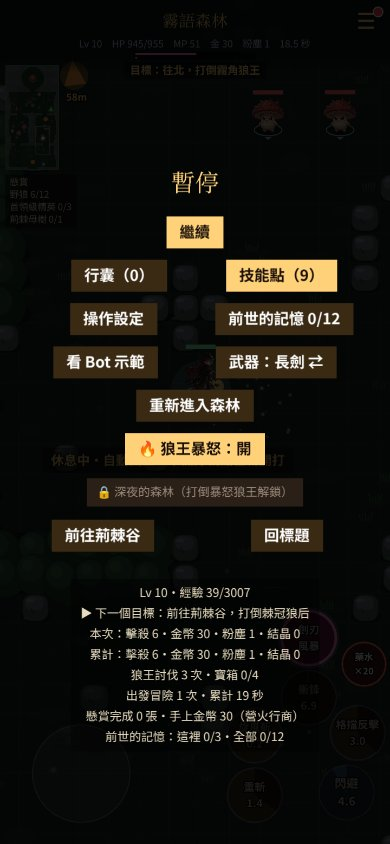
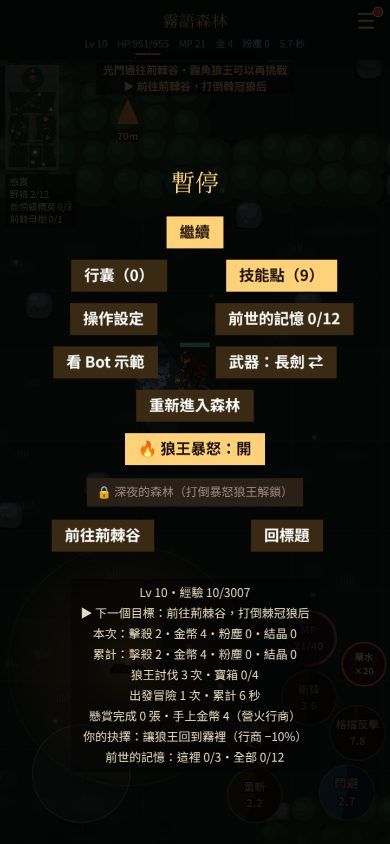
第 68 輪文件：PROGRESS、NEXT、D-200；README 截圖 31（暫停選單）換成現在的畫面 [skip ci]
Claude-Session: https://claude.ai/code/session_01DgXGTxBidVrXajbe2Bkavf

diff --git a/docs/NEXT.md b/docs/NEXT.md
@@ -1,6 +1,6 @@
 # 下一步（依優先順序，最上面先做）
 
-> 第 67 輪（10/31 00:40）更新；第 18 輪整理過：過時指示全部刪掉（Jacky 10/25 要求，D-089）。舊內容要查就看 git 歷史或 `docs/DECISIONS.md`。
+> 第 68 輪（10/31 02:55）更新；第 18 輪整理過：過時指示全部刪掉（Jacky 10/25 要求，D-089）。舊內容要查就看 git 歷史或 `docs/DECISIONS.md`。
 > **現在的方向**：單人即時動作戰鬥＋**四張大地圖**（霧語森林→荊棘谷→燼紅裂谷（結局）→星隕高原（通關後挑戰），D-062／063／065／087／114／125／138）。主規格 `docs/design/20-swordsman-and-map.md`。設計文件索引：`docs/design/README.md`。
 > 舊主線（回合制＋自由探索）**已刪除**（D-097）。排程 ⭐ 方向對照：自由走動 ✅（大地圖）、自由買賣 ✅（D-116 行商）、自由點技能 ✅（D-110／112／121）、卡牌小遊戲 ✅（D-127～139 營火燼牌，五位對手）、碰到場景觸發劇情 ✅（D-134 序章、D-137 前世的記憶、D-133 通關演出、**D-159／160 路上的相遇（含護送）**）、**戀愛線依 D-063 停止，不做**。README 不放開發日誌，開發紀錄只寫在 PROGRESS。
 > **加地圖的方法**（D-124）：`src/game/worldMaps.ts` 加一筆（稱呼、配色、decor、next、`postGame`、`bossLv`）＋ `maps/<id>.ts`（產生器在 `scripts/gen-*-draft.py`）＋敵人資料＋ `SPRITE`＋ 3 段記憶（`memories.ts`，測試會要求）；`tests/rt-world-maps.test.ts`／`memories.test.ts` 會自動檢查。新 decor 要處理：地面 `paint`（`starD` 範例）、`Ambient` kind、`drawVents`／vent 事件顏色。
@@ -10,7 +10,8 @@
 2. `art-inbox/` 有圖 → `node scripts/import-art.mjs`（D-036；需要 `pip install "rembg[cpu]" --break-system-packages`）。
 3. CI：同一輪連推多個 commit 會互相取消，只看最後一次結果。CI 的 Smoke test 有時要 13 分鐘（第 37 輪；卡在 `playwright install --with-deps` 的 apt），job 上限 15 分鐘——若之後開始逾時，再考慮快取瀏覽器或拿掉 `--with-deps`。**程式 commit 和 `[skip ci]` 的文件 commit 不要一起推**（最上面是 [skip ci] 時整次 push 都不跑）。
 
-## 現況（第 67 輪）
+## 現況（第 68 輪）
+- **D-200**：Boss 開打期間抉擇痕跡那句話／寶箱「有點熟悉」不說、記憶卡在 Boss 附近／開打／`menu`／`slainUntil`／`reviveUntil` 時留在 `memQ`；**新的「每次進圖都可能講」的說明用 `timesDue(key, 次數)`**（深夜說明 2 次、隱藏精英連殺提示 3 次）；紅「!」不畫在小地圖／懸賞板上（`overHudPanel`）。大招／Boss 登場凍結截圖方法見第 68 輪 PROGRESS。
 - **D-199**：`ventHinted`／`hazardHinted` 進圖時看這張圖 `bossKills`；`idleHint` 不對 `veteran` 說；`veteran`（打倒過霧角狼王）不顯示「點怪物開打」字條，`calmText` 沒字整條藏起；行商賣空的說明；記憶 12/12 副標＋收尾（最後一頁）。
 - **D-198**：`jg_tip_gear` 只在真的放進行囊才教；`newbie` 要這張圖 `bossKills` 為 0；標題 NEW 另看 `chapterSeen`／`bossKillsOf`（**截標題時 LS 要放真玩家會有的 `jg_chapter_<id>`**，不然走過的圖也會掛 NEW）；未開放地圖的條件換在按鈕上（`lockedHint(id, c, tx, label)`）；紅「!」避開 `zoneTexts`。標題截圖腳本 `screenshots/title.mjs`／`title2.mjs`（gitignored，內容見第 66 輪 PROGRESS）。
 - **D-197**：Boss 第二階段大字後 3.2 秒（`phaseUntil`）深夜說明／`announce`／教學小字排隊，正在顯示的 `nightTip` 淡掉；**新的置中說明大字若可能在 Boss 戰出現，也要檢查 `phaseUntil`**。`aggro` 紅「!」只畫在 `VIEW_TOP` 以下。Boss 截圖工具 `scripts/shot-boss.py`（見第 65 輪 PROGRESS）。
@@ -100,7 +101,9 @@
 ### 下一輪從這裡開始（依序）
 1. **Jacky 有回覆就照他的答案先做**（FOR_JACKY 第 4～21 題）。
 2. **相遇（選做，先等 Jacky 回 FOR_JACKY 第 21 題）**：他說「相遇減少」就把每張圖砍回一個（刪 `ENCOUNTERS` 第 4～7 筆、改測試數量、README）。沒回覆就**先不要再加**。**不要**把抉擇／相遇做成永久戰鬥加成（D-157）。
-3. **（下一輪建議主工作）「第一眼」第三十三段＋準備 11/4 打磨期**：①README 截圖：`62-bow-ult.jpg` 下緣還是舊的硬切黑邊，用凍結模擬重拍（`sc().editing = true` 後 `sc().bowFx(...)` 直接畫大招，避開受擊閃白），其他 63～76、88～94 再抽 6 張比對。②還沒看過的：荊棘谷深夜老玩家 390×844 前 2 分鐘（長劍）、燼牌「整理牌組」390×844 拉到最底、☰ 設定面板改音量後回標題、通關後回顧結局（360×640）。③老玩家重複提示再掃一次：`grep -n "bigText(this, GAME_WIDTH / 2" src/game/scenes/RtBattleScene.ts`，找沒有被 `tipOnce`／`bossKills`／`newbie` 擋住、每次進圖都會出的說明（D-199 修了噴發、毒沼、點一下怪物；第 67 輪掃過 `bigText` 置中那批，其餘都是事件觸發或已有旗標）。只修看得到的問題。
+3. **（下一輪建議主工作）「第一眼」第三十四段＋準備 11/4 打磨期**：①README 截圖還沒對過的：65～74（裁切的小圖）、76（時間凝滯）、80～86；有舊畫面（下緣硬切、沒有 HUD 標題列、疊字）就用第 68 輪 PROGRESS 的凍結法重拍。②還沒看過的：新存檔 360×640 一路玩到第一次升級＋第一次開行商（真人最可能的前 5 分鐘，看文字有沒有太多）、荊棘谷護送／騾子相遇在 390×844、通關後回標題再進星隕高原（老玩家，看 `timesDue` 之外還有沒有每次都講的）。③`grep -n "Hinted = false\|Told = false" src/game/scenes/RtBattleScene.ts` 剩下的旗標（`fireHinted` 已擋 `newbie`、`blinkHinted` 是戰鬥提示、`chestHinted` 是寶箱指引）都看過了；新增提示記得用 `tipOnce`／`timesDue`。只修看得到的問題。
+   - 第 68 輪已做（第三十三段）：README 62／75（大招，下緣硬切）、38／57（Boss 登場）、31（暫停選單）重拍；深夜荊棘谷老玩家 2 分鐘（長劍 390×844）、燼牌整理牌組 38 張（兩種尺寸）、回顧結局（360×640）、四張圖 Boss 登場。修了：深夜說明／隱藏精英提示每次開遊戲都講、Boss 登場疊字、紅「!」壓小地圖（D-200）。
+   - 小問題（不改）：設定面板沒有音量（只有開關）；傷害數字可能落在懸賞板上（怪在那裡）；快轉截圖的受擊閃白讓深夜畫面偏粉紅（假象）。
    - 第 67 輪已做（第三十二段）：深夜燼紅裂谷老玩家前 2 分鐘（法杖 360×640）、行商賣到 0（兩種尺寸）、技能點重置後再點（長弓 390×844）、記憶 12/12（兩種尺寸）。修了：老玩家每次被教噴發、老玩家一直掛「點怪物開打」、行商賣空、記憶 12/12 收尾（D-199）。
    - 第 66 輪已做（第三十一段）：燼牌五位對手開場／結算（390×844）、行囊 60 滿（自動分解／撿不起來）、Bot 示範↔自己操作（360×640）、通關 Lv16 長弓回霧語森林 2 分鐘、標題（通關後、剛打倒狼王、設定、未開放提示）、通關玩家的 ☰。修了：行囊滿還說「撿到裝備了」、老玩家又被教營火、走過的圖掛 NEW、未開放提示離按鈕太遠、「!」壓地區名稱（D-198）。
    - 小問題（不改）：星隕高原懸賞板會掛「荊棘母樹 0/1（別圖）」（設計如此）；標題「回顧結局」快轉截圖底下按鈕淡淡透出（假象，veil 0.985）。
@@ -133,7 +136,7 @@
 5. **長弓／法杖的主角圖（選做）**：拿弓／拿杖的 Q 版圖（ART_REQUESTS，GPT 只剩 1，FOR_JACKY 第 17／19 題問）；真機聽 `SFX.bowShot`／`magicBolt`／`timeStop`／`voidOpen`。**不要再試「Bot 放風箏」**（D-148）。
 6. **星隕高原第三輪（選做）**：還要更好就等 Jacky 回 FOR_JACKY 第 15 題排 GPT 圖。
 7. **數值（等真人回饋）**：巡守太硬 → `mist_warden` HP 1050→900；巡獵者 1400→1200；岩王太難 → 6000／35（D-136）；守望者太難 → 8200→7400（D-138）；星蝕狼太硬 → 3600→3000（D-144）；長弓太強 → `ARCHER.atk` 31→30 或 HP 540→500（看 3 個種子以上再改）；長弓變化二太強 → 灼燒 30→25%、中毒 20→15%（D-149）；法杖太強 → `MAGE` HP 540→500 會讓通關機器人慢一倍（D-152），先降攻擊 33→31；抉擇的結晶 3／4／5 或折扣 10% 若真人覺得不平衡再調（`choices.ts`）。
-8. PROGRESS 約 280 行（第 48～53 輪第 62 輪已合併）；超過 300 行時再把第 54～59 輪合併。
+8. PROGRESS 約 290 行（第 48～53 輪第 62 輪已合併）；超過 300 行時（下一輪很可能）把第 54～59 輪合併成每日摘要。
 
 ## 其他（空檔再做）
 - 操作設定後續：搖桿要不要「跟著手指」或固定、按鈕透明度（等 Jacky 回覆）。

diff --git a/docs/PROGRESS.md b/docs/PROGRESS.md
@@ -1,5 +1,19 @@
 # 進度紀錄（新的在最上面）
 
+## 2026-10-31 02:13–02:55（台北）第 68 輪 — 「第一眼」第三十三段：README 截圖重拍、深夜荊棘谷老玩家、燼牌整理牌組、回顧結局、Boss 登場疊字（D-200）
+**背景**：沒有 Issue、art-inbox 空、FOR_JACKY 沒有新回覆、CI 全綠（第 67 輪最後的 c2df8f3）。照 NEXT 第 3 項。
+
+**做了什麼**
+- **README 截圖**：62（長弓大招）、75（虛空奇點）以前在出生點拍、下緣硬切黑邊 → 改在地圖中段用凍結模擬重拍（傳到狼群南方、狼 `speedPerTick=0`、放大招到第 N tick 後 `editing` 凍結）；38（狼后登場）、57（守望者登場）、31（暫停選單）重拍成現在的畫面。用暗邊偵測掃過其他 390×844 截圖，剩下的都是面板（正常）。
+- **走一次**：深夜荊棘谷老玩家（Lv12 長劍 390×844）前 2 分鐘；燼牌整理牌組 38 張全拿（390×844、360×640，點最長說明的「說書回聲」）；回顧結局（法杖 360×640，點到感謝遊玩）；四張圖 Boss 登場（凍結在名字大字）；☰ 暫停選單。
+- **修**：①深夜說明（夜光寶箱、毒沼擴散…）每次開遊戲都講 → 每張圖前 2 次。②隱藏精英「不倒下一直打下去，首領會被引出來」每次開遊戲都講 → 前 3 次（新的 `timesDue`）。③Boss 登場名字上壓著抉擇痕跡那句話／記憶卡／寶箱提示 → Boss 開打期間先等。④怪在小地圖／懸賞板底下時紅「!」浮在上面 → 不畫。
+- 乾淨沒改：燼牌整理牌組（38 張 6 列、說明與按鈕不重疊，兩種尺寸）、回顧結局（360×640 每頁）、霧語森林／燼紅裂谷 Boss 登場、暫停選單。
+- 小問題（不改）：「設定面板改音量」——設定只有開關（音效／音樂…），沒有音量滑桿，第 66 輪看過；傷害數字會落在左上懸賞板上（怪真的在那裡）。
+
+**驗證**：每次提交前 build＋`npx vitest run --exclude 'tests/zz-*'`（336 項全過）。核心沒動。Playwright：`jg_night_tips_thornvale=2` 時深夜荊棘谷不再出寶箱／毒沼說明；守望者登場凍結畫面只剩名字；星隕高原出生點的記憶卡照常出現。
+
+**截圖小抄（本輪）**：腳本都在 scratchpad（不在 repo），重寫要點——大招：`shot-newsave` 第 3 秒挑最多鄰居的狼、主角傳到牠南方 1000 停住（等開場字淡掉），第 13 秒再靠近到 +640（法杖虛空奇點 +200）、全部狼 `speedPerTick=0`、每 0.1 秒 `p.mp=40; p.ready.blade_storm=0; pending.push({type:'skill',id:'blade_storm'})` 直到 `p.action.id==='blade_storm' && s.tick-p.action.start>=24`（法杖 14），再 `flashUntil.clear()`、`flashEffect/shakeEffect.reset()`、`editing={...}` 凍結。Boss 登場：`shot-boss.py 名稱 地圖 武器 W H x '[[3,"sc().commands=()=>[];1"],[16,"…"]]'`，第 16 秒傳到 Boss 南 700、指令 target Boss，`ff(0.1)` 到畫面文字出現 Boss 名字再 `ff(0.6)` 凍結（第 3 秒要先停 Bot，不然 Bot 自己走去開打，登場早就播完）。法杖變化二＝LS `skills:{blade_storm:5}, variants:['blade_storm:b']`。
+
 ## 2026-10-31 00:19–00:40（台北）第 67 輪 — 「第一眼」第三十二段：深夜燼紅裂谷、行商賣空、技能點重置、記憶 12/12（D-199）
 **背景**：沒有 Issue、art-inbox 空、FOR_JACKY 沒有新回覆、CI 全綠（第 66 輪最後的 cfe64bb）。照 NEXT 第 3 項②。
 

diff --git a/docs/DECISIONS.md b/docs/DECISIONS.md
@@ -2,6 +2,12 @@
 
 > 格式：編號、日期（台北）、決策、理由、替代方案。新的放最上面。
 
+## D-200 2026-10-31 Boss 登場那一刻不疊字；每次開遊戲都會重講的說明改成「前幾次」
+- **Boss 開打期間先等**：巢穴邊的抉擇痕跡那句話（`CHOICE_ECHO`）、「這個地方似乎有點熟悉……」（寶箱）在 Boss `mode==='combat'` 時不說（之後再走近才說）；記憶卡（`memoryCheck`）在 Boss 開打、站在 Boss 發現範圍＋3 格內、`menu`、`slainUntil`、`reviveUntil` 期間先記在 `memQ`，走開／打完再想起。理由：用凍結截圖看狼后、守望者登場，名字大字上壓著「白花在荊棘之間…」、記憶卡、寶箱提示。
+- **`timesDue(key, times)`**（`RtBattleScene.ts` 檔頭）：localStorage 記次數、每呼叫一次算一次，讀不到就照講。深夜說明（`jg_night_tips_<stage>`）每張圖前 2 次進深夜才講；隱藏精英連殺提示（`jg_streak_hint_<stage>`）每張圖前 3 次。理由：這兩組以前每次開遊戲都講（場景欄位旗標），老玩家很吵。**新的「每次進圖都可能講」的說明就用 `timesDue`**。
+- **紅「!」**（aggro）在左上小地圖或懸賞板範圍（含下方 70px，浮字會往上飄）就不畫（`overHudPanel`）。傷害數字照舊（怪在那裡被打，數字有意義）。
+- 替代：Boss 登場時把正在顯示的字全部收掉——但記憶卡是一次性的獎勵演出，被收掉就看不到了，所以改成延後。
+
 ## D-199 2026-10-31 老玩家少一點重複教學；行商賣空、記憶 12/12 的收尾
 - **噴發／墜星／毒沼第一次說明**（`ventHinted`／`hazardHinted`，場景欄位、不重設＝每次開遊戲說一次）：進圖時若這張圖 `bossKills > 0` 就設成看過。理由：老玩家每次開遊戲進燼紅裂谷／星隕高原／荊棘谷都會被教一次「熔岩口噴發！地上發亮就快走開」。30 秒沒打怪的「點一下怪物，就會走過去開打！」也不對 `veteran` 說。
 - **閒置字條 `calmText`**：打倒過霧角狼王（`veteran`＝`bossKillsOf(WORLD_MAPS[0].id) > 0`）就不再顯示「點怪物開打（一次拉一組）」／「準備好就點怪物開打」；「點營火休息」「打不過就退回營火」「休息中・自動回血」照舊。沒字時整條藏起（字條有底色，空字串會留一個小黑框）。新手流程不變。
